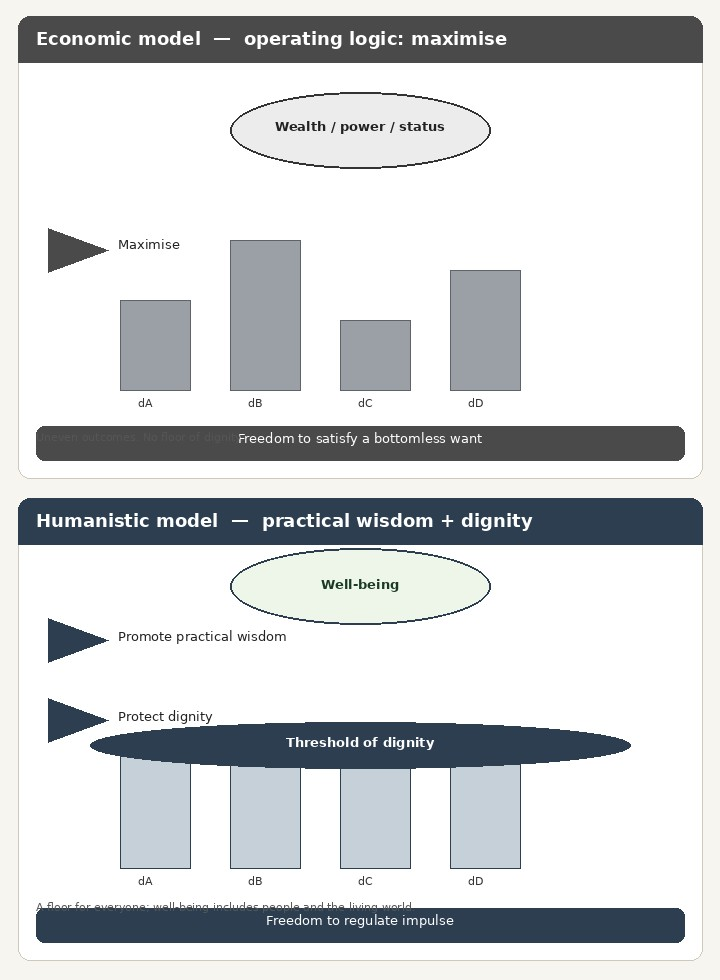
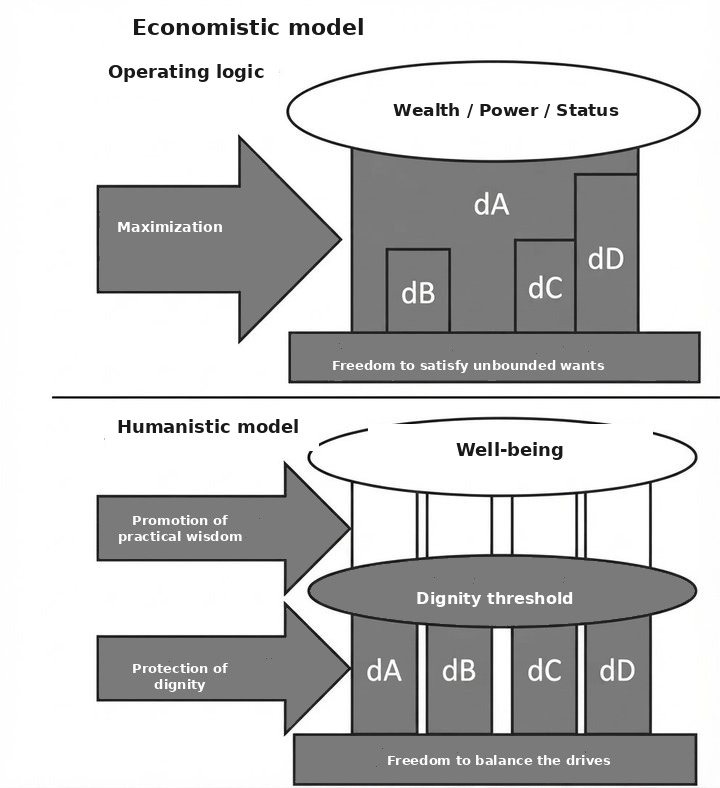
Put English labels on the note Pirson figure instead of a broken redraw.
Cambridge does not host a free copy of the 2017 original. Keep the Japanese geometry and replace the labels.

diff --git a/writing/drafts/en-from-note/OPEN-IN-BROWSER-2026-09-04.html b/writing/drafts/en-from-note/OPEN-IN-BROWSER-2026-09-04.html
@@ -32,7 +32,7 @@
 <p><a href="https://www.youtube.com/playlist?list=PLiSKEuDit5HplW8JI5fHlWPYA32wQwAxp">Change Management for the Well-Being Era (YouTube playlist)</a></p>
 <p>Still, if the OS of firms and the economy keeps running on the maximisation of wealth, and on behaviour that answers stakeholder expectations for that, I felt we cannot really move from a secured footing (well-being) into work for a better, more flourishing future. (You see logics that look like discarding the weak.) The shape of that unease became clear when I met Michael Pirson and others’ <em>Humanistic Management</em>. Contemporary economic activity and organisations run, often without noticing, on a particular “objective function.”</p>
 <p><img src="https://raw.githubusercontent.com/kohnoda-glitch/kocorolab/cursor/note-medium-writing-4caf/writing/drafts/en-from-note/images/2026-09-04-objective-function/02-figure-en.jpg" alt=""></p>
-<p><em>Redrawn in English from the figure I translated for the Japanese original, after Pirson and others (Humanistic Management).</em></p>
+<p><em>English labels on the figure I translated for the Japanese original, after Pirson, Humanistic Management (2017).</em></p>
 <p>From <em>Humanistic Management</em>, in my translation:</p>
 <p>The “economic model” we have taken up without much doubt puts “maximise” in its operating logic, and chases wealth, power, and status. What sits there is the freedom to fill a bottomless want. That rigid system has thrown young people and working people into harsh competition, and worn them down.</p>
 <p>What we should aim for is a turn toward a “humanistic model.” Its operating logic is the promotion of practical wisdom and the protection of dignity, with well-being set at the top. Well-being here is not only human well-being; it includes nature and the planetary environment. The design puts the freedom to regulate impulse at the base, and redesigns the organisation while guarding a threshold of dignity.</p>

diff --git a/writing/scripts/build_note_en_medium.py b/writing/scripts/build_note_en_medium.py
@@ -76,89 +76,125 @@ def wrap_text(draw: ImageDraw.ImageDraw, text: str, fnt, max_w: int) -> list[str
     return lines
 
 
+def _center(draw: ImageDraw.ImageDraw, text: str, cx: float, y: int, fnt, fill: str) -> None:
+    tw = draw.textlength(text, font=fnt)
+    draw.text((cx - tw / 2, y), text, fill=fill, font=fnt)
+
+
+def _arrow(draw: ImageDraw.ImageDraw, box: tuple[int, int, int, int], fill: str) -> None:
+    x0, y0, x1, y1 = box
+    mid = (y0 + y1) / 2
+    body = x0 + int((x1 - x0) * 0.62)
+    draw.polygon(
+        [
+            (x0, y0 + 10),
+            (body, y0 + 10),
+            (body, y0),
+            (x1, mid),
+            (body, y1),
+            (body, y1 - 10),
+            (x0, y1 - 10),
+        ],
+        fill=fill,
+    )
+
+
+def _fit_center(
+    draw: ImageDraw.ImageDraw,
+    text: str,
+    cx: float,
+    cy: float,
+    fill,
+    sizes: tuple[int, ...],
+    max_w: int,
+) -> None:
+    for size in sizes:
+        fnt = font(EN_BOLD, size)
+        tw = draw.textlength(text, font=fnt)
+        if tw <= max_w:
+            bbox = fnt.getbbox(text)
+            th = bbox[3] - bbox[1]
+            draw.text((cx - tw / 2, cy - th / 2 - bbox[1]), text, fill=fill, font=fnt)
+            return
+    fnt = font(EN_BOLD, sizes[-1])
+    tw = draw.textlength(text, font=fnt)
+    bbox = fnt.getbbox(text)
+    th = bbox[3] - bbox[1]
+    draw.text((cx - tw / 2, cy - th / 2 - bbox[1]), text, fill=fill, font=fnt)
+
+
+def _flood_gray_interior(im: Image.Image, seed: tuple[int, int], fill) -> None:
+    """Fill one outlined gray shape, including white Japanese sitting on it."""
+    w, h = im.size
+    px = im.load()
+    sx, sy = seed
+    start = px[sx, sy]
+    if (start[0] + start[1] + start[2]) / 3 < 80:
+        raise SystemExit(f"flood seed {seed} is on an outline")
+    seen = {seed}
+    stack = [seed]
+    while stack:
+        x, y = stack.pop()
+        px[x, y] = fill
+        for nx, ny in ((x - 1, y), (x + 1, y), (x, y - 1), (x, y + 1)):
+            if not (0 <= nx < w and 0 <= ny < h) or (nx, ny) in seen:
+                continue
+            r, g, b = px[nx, ny]
+            if (r + g + b) / 3 < 90:
+                continue
+            seen.add((nx, ny))
+            stack.append((nx, ny))
+            if len(seen) > 120000:
+                raise SystemExit(f"flood from {seed} leaked")
+
+
 def draw_hm_figure(dest: Path) -> None:
-    """English redraw of the Humanistic Management figure used on the Japanese note."""
-    w, h = 720, 980
-    im = Image.new("RGB", (w, h), "#f7f5f0")
+    """English labels on the Japanese note figure (same geometry as Pirson 2017).
+
+    The CUP book figure is not posted as a free image. Do not invent a new
+    diagram. Paint English onto the figure already used on note.
+    """
+    src = IMG_0904 / "01-figure-ja.jpg"
+    im = Image.open(src).convert("RGB")
+    white = (255, 255, 255)
+    black = (25, 25, 25)
+    gray = (122, 122, 122)
+
+    # Pixel ops first. ImageDraw after this, or the original bitmap is flushed back.
+    _flood_gray_interior(im, (130, 270), gray)
+    _flood_gray_interior(im, (300, 376), gray)
+    _flood_gray_interior(im, (130, 500), gray)
+    _flood_gray_interior(im, (350, 600), gray)
+    _flood_gray_interior(im, (130, 645), gray)
+    _flood_gray_interior(im, (310, 776), gray)
+
     draw = ImageDraw.Draw(im)
-    title_f = font(EN_BOLD, 18)
-    small_f = font(EN_FONT, 13)
-    tiny_f = font(EN_FONT, 11)
-    oval_f = font(EN_BOLD, 13)
-    bar_f = font(EN_FONT, 11)
 
-    def panel(y0: int, y1: int, header: str, base: str, header_fill: str) -> None:
-        draw.rounded_rectangle((18, y0, w - 18, y1), radius=12, fill="#ffffff", outline="#cfc8bc", width=1)
-        draw.rounded_rectangle((18, y0, w - 18, y0 + 46), radius=12, fill=header_fill)
-        draw.rectangle((18, y0 + 28, w - 18, y0 + 46), fill=header_fill)
-        draw.text((36, y0 + 12), header, fill="#ffffff", font=title_f)
-        draw.rounded_rectangle((36, y1 - 52, w - 36, y1 - 18), radius=8, fill=header_fill)
-        lines = wrap_text(draw, base, small_f, w - 90)
-        ty = y1 - 48 if len(lines) == 1 else y1 - 50
-        for line in lines:
-            tw = draw.textlength(line, font=small_f)
-            draw.text(((w - tw) / 2, ty), line, fill="#ffffff", font=small_f)
-            ty += 16
+    def blot(box, fill) -> None:
+        draw.rectangle(box, fill=fill)
 
-    panel(
-        16,
-        478,
-        "Economic model  —  operating logic: maximise",
-        "Freedom to satisfy a bottomless want",
-        "#4a4a4a",
-    )
-    panel(
-        498,
-        960,
-        "Humanistic model  —  practical wisdom + dignity",
-        "Freedom to regulate impulse",
-        "#2c3e50",
-    )
+    blot((140, 6, 390, 48), white)
+    blot((98, 50, 278, 96), white)
+    blot((372, 86, 640, 136), white)
+    blot((105, 402, 318, 450), white)
+    blot((368, 424, 652, 478), white)
 
-    # Economic: uneven bars and wealth oval
-    econ_bars = [(120, 90), (230, 150), (340, 70), (450, 120)]
-    base_y = 390
-    for i, (x, bh) in enumerate(econ_bars):
-        draw.rectangle((x, base_y - bh, x + 70, base_y), fill="#9aa0a6", outline="#5d6368")
-        draw.text((x + 18, base_y + 6), f"d{chr(65 + i)}", fill="#333333", font=bar_f)
-    draw.ellipse((230, 92, 490, 168), fill="#ececec", outline="#333333", width=2)
-    for i, line in enumerate(["Wealth / power / status"]):
-        tw = draw.textlength(line, font=oval_f)
-        draw.text(((w - tw) / 2, 118), line, fill="#222222", font=oval_f)
-    draw.polygon([(48, 228), (48, 272), (108, 250)], fill="#4a4a4a")
-    draw.text((118, 236), "Maximise", fill="#222222", font=small_f)
-    draw.text(
-        (36, 430),
-        "Uneven outcomes. No floor of dignity.",
-        fill="#555555",
-        font=tiny_f,
-    )
+    _fit_center(draw, "Economistic model", 248, 27, black, (22, 20, 18), 240)
+    _fit_center(draw, "Operating logic", 186, 73, black, (18, 16, 15), 170)
+    _fit_center(draw, "Maximization", 170, 227, white, (16, 15, 14), 108)
+    _fit_center(draw, "Wealth / Power / Status", 506, 111, black, (17, 15, 14), 255)
+    _fit_center(draw, "Freedom to satisfy unbounded wants", 468, 367, white, (13, 12, 11), 430)
+    _fit_center(draw, "Humanistic model", 208, 426, black, (20, 18, 16), 200)
+    _fit_center(draw, "Well-being", 510, 451, black, (18, 16, 14), 250)
+    _fit_center(draw, "Promotion of", 180, 520, white, (13, 12, 11), 130)
+    _fit_center(draw, "practical wisdom", 180, 538, white, (13, 12, 11), 130)
+    _fit_center(draw, "Dignity threshold", 495, 600, white, (16, 15, 14), 250)
+    _fit_center(draw, "Protection of", 180, 668, white, (13, 12, 11), 130)
+    _fit_center(draw, "dignity", 180, 686, white, (13, 12, 11), 130)
+    _fit_center(draw, "Freedom to balance the drives", 499, 760, white, (13, 12, 11), 350)
 
-    # Humanistic: equal bars, dignity threshold, well-being oval
-    hum_base = 868
-    bar_h = 118
-    for i, x in enumerate([120, 230, 340, 450]):
-        draw.rectangle((x, hum_base - bar_h, x + 70, hum_base), fill="#c5d0d8", outline="#2c3e50")
-        draw.text((x + 18, hum_base + 6), f"d{chr(65 + i)}", fill="#333333", font=bar_f)
-    thresh_y = hum_base - bar_h
-    draw.ellipse((90, thresh_y - 28, 630, thresh_y + 18), fill="#2c3e50")
-    tw = draw.textlength("Threshold of dignity", font=oval_f)
-    draw.text(((w - tw) / 2, thresh_y - 16), "Threshold of dignity", fill="#ffffff", font=oval_f)
-    draw.ellipse((230, 548, 490, 624), fill="#eef6ea", outline="#2c3e50", width=2)
-    tw = draw.textlength("Well-being", font=oval_f)
-    draw.text(((w - tw) / 2, 576), "Well-being", fill="#1a3a24", font=oval_f)
-    draw.polygon([(48, 618), (48, 662), (108, 640)], fill="#2c3e50")
-    draw.text((118, 628), "Promote practical wisdom", fill="#222222", font=small_f)
-    draw.polygon([(48, 698), (48, 742), (108, 720)], fill="#2c3e50")
-    draw.text((118, 708), "Protect dignity", fill="#222222", font=small_f)
-    draw.text(
-        (36, 900),
-        "A floor for everyone; well-being includes people and the living world.",
-        fill="#555555",
-        font=tiny_f,
-    )
     dest.parent.mkdir(parents=True, exist_ok=True)
-    im.save(dest, quality=90, optimize=True)
+    im.save(dest, quality=92, optimize=True)
 
 
 def raw(folder: str, name: str) -> str:
@@ -337,7 +373,7 @@ Still, if the OS of firms and the economy keeps running on the maximisation of w
 
 ![]({r04("02-figure-en.jpg")})
 
-*Redrawn in English from the figure I translated for the Japanese original, after Pirson and others (Humanistic Management).*
+*English labels on the figure I translated for the Japanese original, after Pirson, Humanistic Management (2017).*
 
 From *Humanistic Management*, in my translation:
 

diff --git a/writing/scripts/test_note_en_medium.py b/writing/scripts/test_note_en_medium.py
@@ -27,12 +27,13 @@ def test_medium_new_stories() -> None:
     assert NOTE_0904 in html04 and "4 September 2026" in html04
     assert html25.count("<img") == 3
     assert html04.count("<img") == 4
-    assert "Redrawn in English" in html04
-    assert "Humanistic Management" in html04
+    assert "English labels on the figure I translated" in html04
+    assert "Pirson, Humanistic Management (2017)" in html04
     assert "updating the OS of learning" in html04
     assert NOTE_0825 in html04
     fig = Image.open(ROOT / "images/2026-09-04-objective-function/02-figure-en.jpg")
-    assert fig.size == (720, 980)
+    ja = Image.open(ROOT / "images/2026-09-04-objective-function/01-figure-ja.jpg")
+    assert fig.size == ja.size == (720, 788)
 
     for name in (
         "images/2026-08-25-os-of-learning/00-cover.jpg",

diff --git a/writing/drafts/en-from-note/2026-09-04-rewriting-the-objective-function.md b/writing/drafts/en-from-note/2026-09-04-rewriting-the-objective-function.md
@@ -34,7 +34,7 @@ Still, if the OS of firms and the economy keeps running on the maximisation of w
 
 ![](https://raw.githubusercontent.com/kohnoda-glitch/kocorolab/cursor/note-medium-writing-4caf/writing/drafts/en-from-note/images/2026-09-04-objective-function/02-figure-en.jpg)
 
-*Redrawn in English from the figure I translated for the Japanese original, after Pirson and others (Humanistic Management).*
+*English labels on the figure I translated for the Japanese original, after Pirson, Humanistic Management (2017).*
 
 From *Humanistic Management*, in my translation:
 

diff --git a/writing/drafts/en-from-note/PASTE-TO-MEDIUM-2026-09-04.md b/writing/drafts/en-from-note/PASTE-TO-MEDIUM-2026-09-04.md
@@ -36,7 +36,7 @@ Still, if the OS of firms and the economy keeps running on the maximisation of w
 
 ![](https://raw.githubusercontent.com/kohnoda-glitch/kocorolab/cursor/note-medium-writing-4caf/writing/drafts/en-from-note/images/2026-09-04-objective-function/02-figure-en.jpg)
 
-*Redrawn in English from the figure I translated for the Japanese original, after Pirson and others (Humanistic Management).*
+*English labels on the figure I translated for the Japanese original, after Pirson, Humanistic Management (2017).*
 
 From *Humanistic Management*, in my translation:
 
